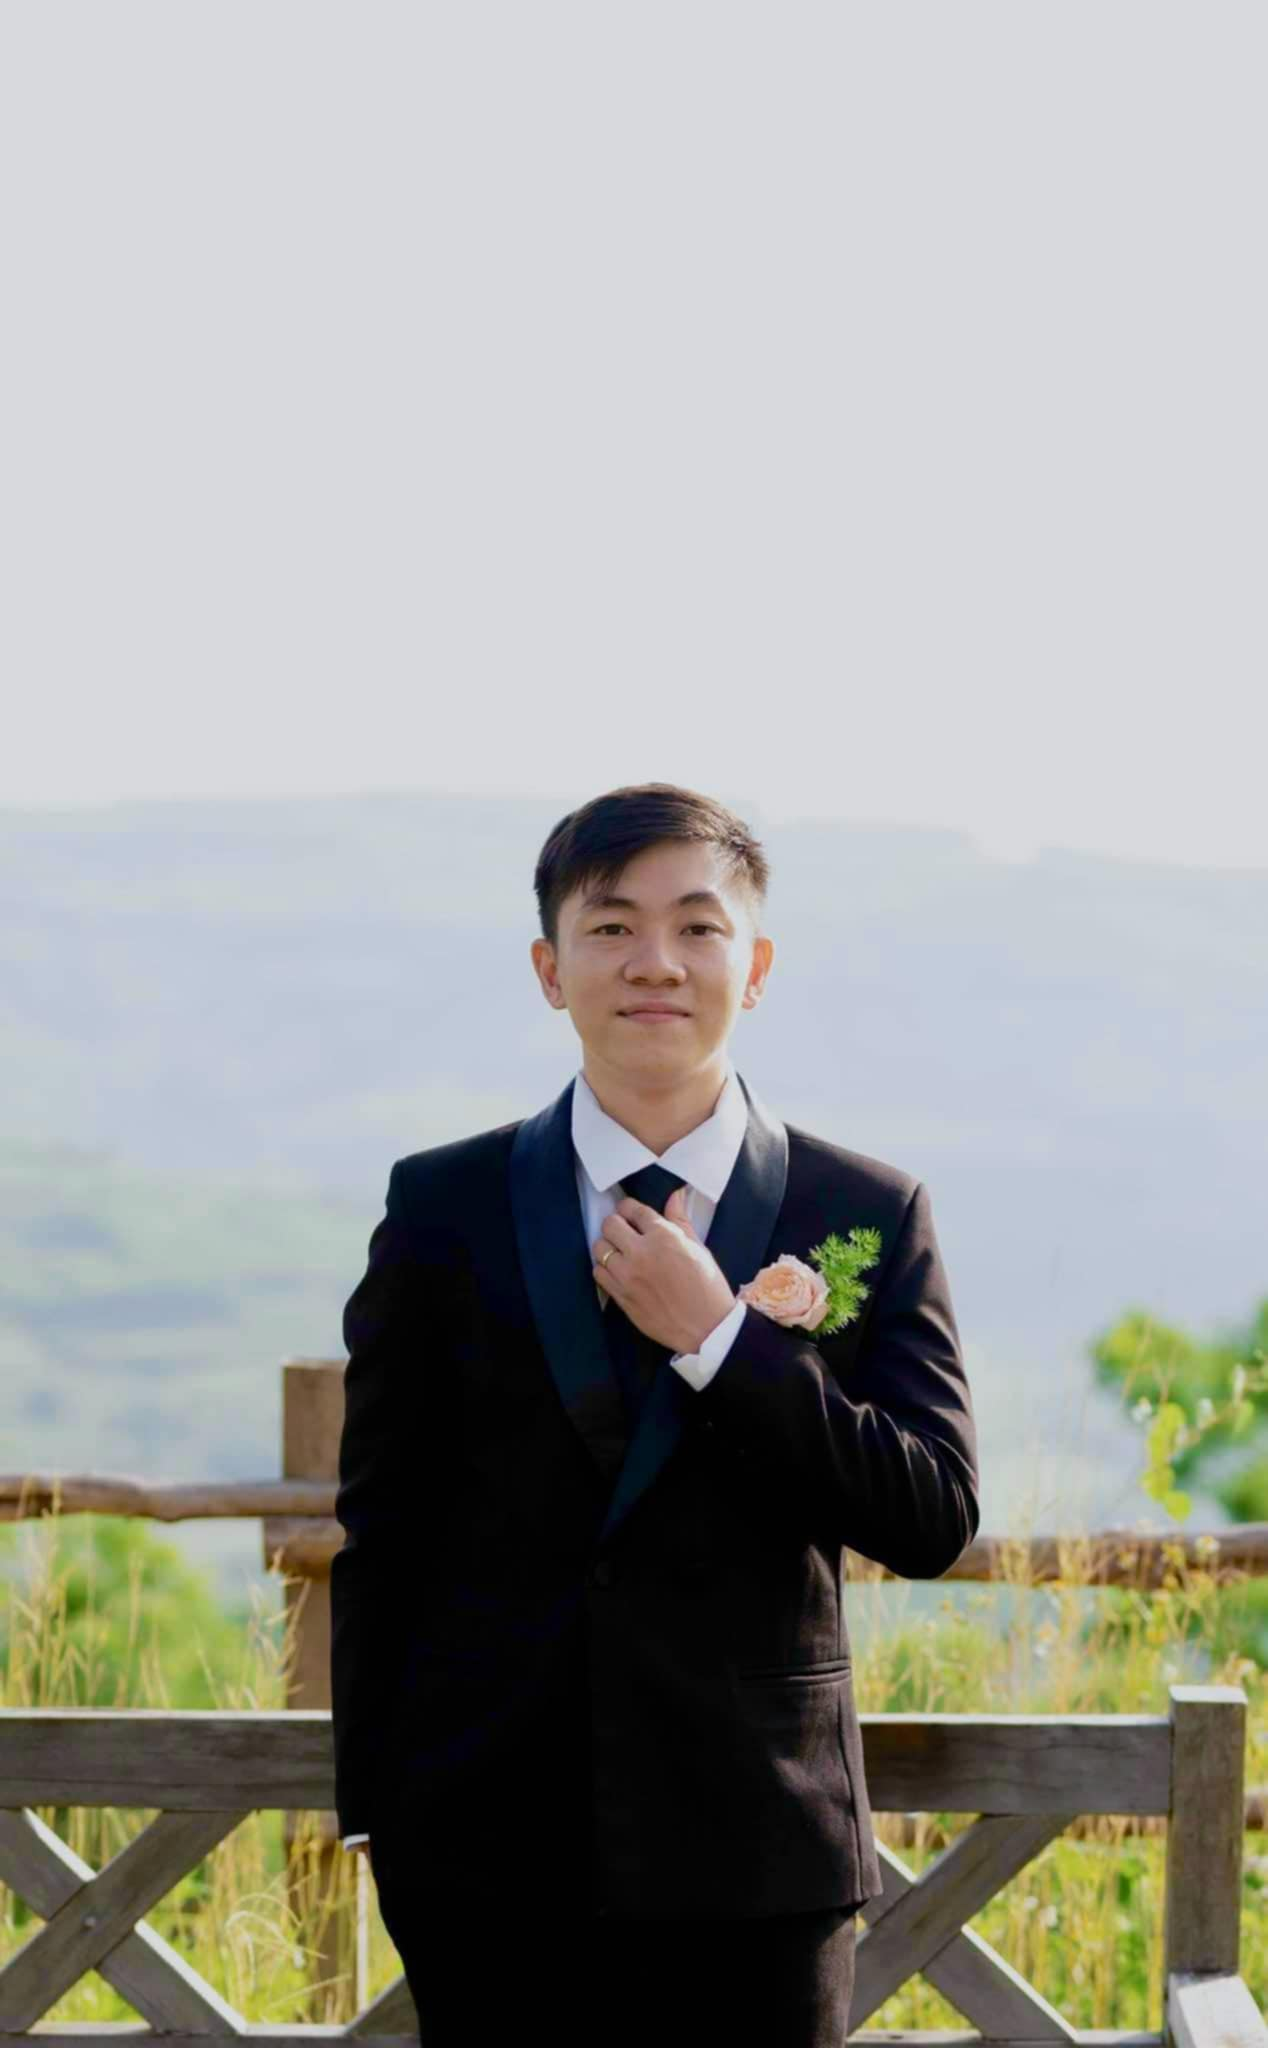
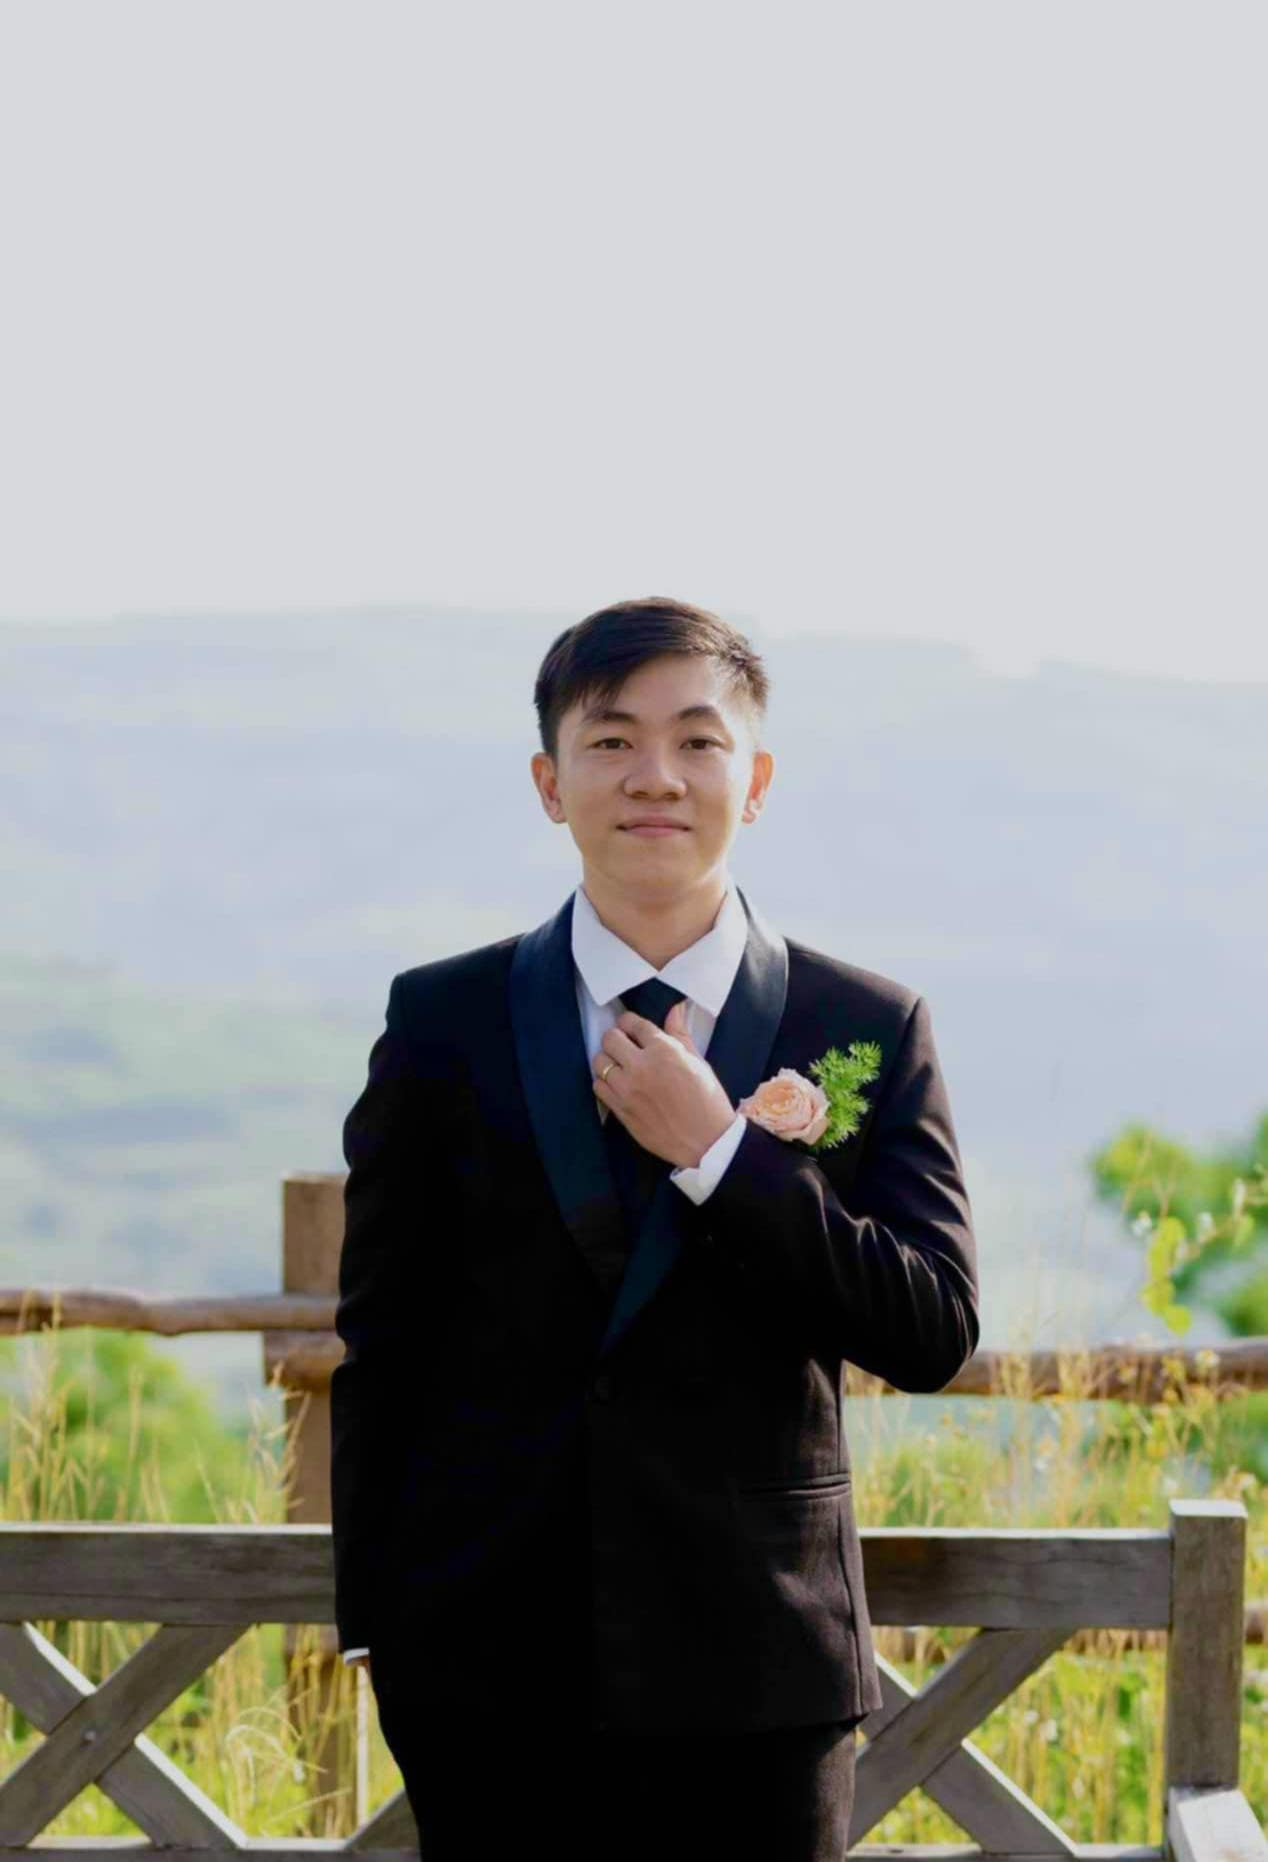
update config

diff --git a/index.html b/index.html
@@ -2680,9 +2680,8 @@
                                                 ></path>
                                             </svg>
                                         </div>
-                                        <input type="file" class="img-up-load" accept="image/*" />
                                         <div class="image-wrapper">
-                                            <img id="couple_img_1" data-width="1200" data-height="1200" src="./index_files/anh.jpg" class="edit-im output-image" />
+                                            <img id="couple_img_1" data-width="1200" data-height="1200" src="./index_files/anh.jpg" class="edit-im output-image" style="margin-top: -20px;"/>
                                         </div>
                                     </div>
                                     <div class="hover-info neela-style">

diff --git a/_guests/phuong.md b/_guests/phuong.md
@@ -2,7 +2,7 @@
 layout: invite
 title: "Bạn Phương + ♥"
 location: "nam + nữ"
-time: "11 GIỜ 00 VÀ 17 GIỜ 00"
+time: "11:00 và 17:00"
 permalink: /phuong.html
 ---
 

diff --git a/_guests/phuoc.md b/_guests/phuoc.md
@@ -2,7 +2,7 @@
 layout: invite
 title: "Bạn Phước + ♥"
 location: "nam + nữ"
-time: "11 GIỜ 00 VÀ 17 GIỜ 00"
+time: "11:00 và 17:00"
 permalink: /phuoc.html
 ---
 

diff --git a/_guests/thang.md b/_guests/thang.md
@@ -2,7 +2,7 @@
 layout: invite
 title: "Bạn Thắng + ♥"
 location: "nam + nữ"
-time: "11 GIỜ 00 VÀ 17 GIỜ 00"
+time: "11:00 và 17:00"
 permalink: /thang.html
 ---
 

diff --git a/_guests/khai.md b/_guests/khai.md
@@ -2,7 +2,7 @@
 layout: invite
 title: "Bạn Khải + ♥"
 location: "nam + nữ"
-time: "11 GIỜ 00 VÀ 17 GIỜ 00"
+time: "11:00 và 17:00"
 permalink: /khai.html
 ---
 

diff --git a/_guests/linh.md b/_guests/linh.md
@@ -2,7 +2,7 @@
 layout: invite
 title: "Vợ chồng bạn Linh"
 location: "nam + nữ"
-time: "11 GIỜ 00 VÀ 17 GIỜ 00"
+time: "11:00 và 17:00"
 slug: linh
 ---
 
